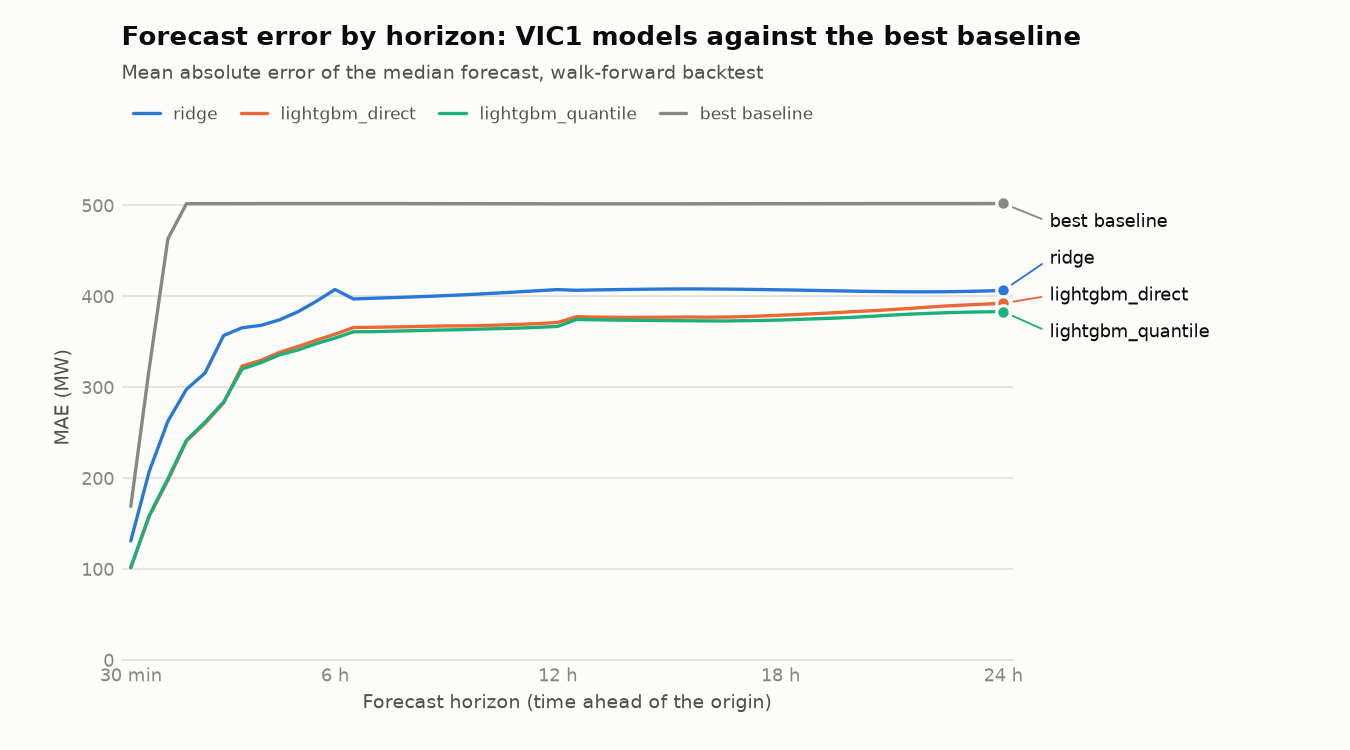
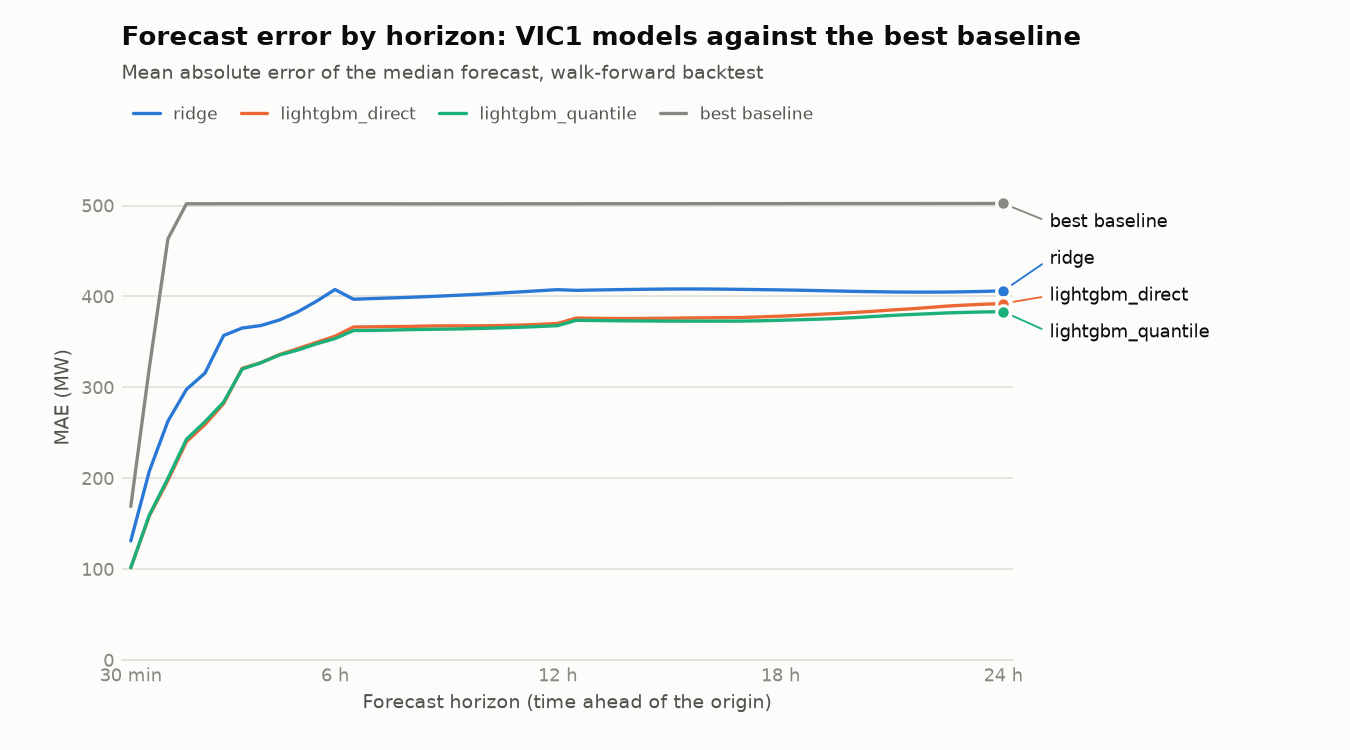
Nightly backtest 2026-11-26 [skip ci]

diff --git a/docs/backtest/README.md b/docs/backtest/README.md
@@ -1,11 +1,11 @@
 # Backtest: VIC1
 
-Generated by `nem-forecast backtest` on 2026-11-25 11:03 AEST from commit `eae7d4e3b448684ebd1917cfd7f3b3498cb2f6e8`. Baselines and models are scored on identical forecasts. Baselines are fixed rules and were not tuned; LightGBM hyperparameters were tuned on a validation split that ends where this backtest begins.
+Generated by `nem-forecast backtest` on 2026-11-26 10:39 AEST from commit `505a23a5000671fc9b3067070e33f770e1a05811`. Baselines and models are scored on identical forecasts. Baselines are fixed rules and were not tuned; LightGBM hyperparameters were tuned on a validation split that ends where this backtest begins.
 
 ## Setup
 
-- **Data:** AEMO 5-minute operational demand averaged to half-hours, 2023-10-01 to 2026-11-25.
-- **Evaluation:** walk-forward over 2025-11-25 to 2026-11-25 (365 days). Expanding training window, refit every 30 days (13 refits), a forecast from every 30-minute origin, 48 half-hour horizons. 840,600 scored forecasts per model.
+- **Data:** AEMO 5-minute operational demand averaged to half-hours, 2023-10-01 to 2026-11-26.
+- **Evaluation:** walk-forward over 2025-11-26 to 2026-11-26 (365 days). Expanding training window, refit every 30 days (13 refits), a forecast from every 30-minute origin, 48 half-hour horizons. 840,312 scored forecasts per model.
 - **Intervals:** baselines use each rule's 10th and 90th error percentiles over the 90 days before each refit. Ridge and LightGBM direct use their own errors on the 28 days before each refit, predicted by a copy trained without those days. LightGBM quantile predicts its quantiles directly.
 - **Time of day:** Melbourne wall-clock time of the target half-hour.
 
@@ -19,13 +19,13 @@ Generated by `nem-forecast backtest` on 2026-11-25 11:03 AEST from commit `eae7d
 
 | Model | Kind | Description | MAE (MW) | RMSE (MW) | MAPE (%) | Pinball avg (MW) | 10-90 coverage (%) |
 |---|---|---|--:|--:|--:|--:|--:|
-| `seasonal_naive` | baseline | Same half-hour yesterday (t-48) | 504 | 752 | 10.8 | 178.4 | 79.9 |
-| `weekly_seasonal_naive` | baseline | Same half-hour last week (t-336) | 594 | 895 | 12.9 | 210.5 | 79.3 |
-| `same_weekday_mean_4w` | baseline | Mean of the same half-hour on the last 4 same weekdays | 502 | 718 | 10.8 | 177.6 | 75.4 |
-| `persistence` | baseline | Last observed half-hour, held flat (demand at the origin) | 968 | 1,231 | 20.5 | 299.2 | 79.5 |
-| `ridge` | model | Ridge regression on standardised lags and one-hot calendar, per horizon group | 384 | 557 | 8.2 | 132.2 | 77.7 |
-| `lightgbm_direct` | model | LightGBM, squared error, one model per horizon group | 351 | 528 | 7.5 | 123.0 | 77.1 |
-| `lightgbm_quantile` | model | LightGBM quantile regression at 0.1/0.5/0.9, one model per horizon group | 347 | 529 | 7.3 | 114.0 | 67.2 |
+| `seasonal_naive` | baseline | Same half-hour yesterday (t-48) | 504 | 752 | 10.8 | 178.5 | 79.9 |
+| `weekly_seasonal_naive` | baseline | Same half-hour last week (t-336) | 594 | 894 | 12.9 | 210.2 | 79.2 |
+| `same_weekday_mean_4w` | baseline | Mean of the same half-hour on the last 4 same weekdays | 502 | 718 | 10.8 | 177.6 | 75.2 |
+| `persistence` | baseline | Last observed half-hour, held flat (demand at the origin) | 968 | 1,231 | 20.5 | 299.3 | 79.5 |
+| `ridge` | model | Ridge regression on standardised lags and one-hot calendar, per horizon group | 384 | 556 | 8.2 | 132.0 | 77.9 |
+| `lightgbm_direct` | model | LightGBM, squared error, one model per horizon group | 351 | 526 | 7.5 | 123.0 | 77.2 |
+| `lightgbm_quantile` | model | LightGBM quantile regression at 0.1/0.5/0.9, one model per horizon group | 347 | 528 | 7.3 | 114.1 | 67.1 |
 
 ## MAE (MW) by horizon
 
@@ -33,25 +33,25 @@ Generated by `nem-forecast backtest` on 2026-11-25 11:03 AEST from commit `eae7d
 
 | Model | 30 min | 1 h | 2 h | 3 h | 6 h | 12 h | 18 h | 24 h |
 |---|--:|--:|--:|--:|--:|--:|--:|--:|
-| `seasonal_naive` | 503 | 503 | 503 | 503 | 504 | 504 | 504 | 504 |
-| `weekly_seasonal_naive` | 594 | 594 | 594 | 594 | 594 | 594 | 594 | 594 |
+| `seasonal_naive` | 504 | 504 | 504 | 504 | 504 | 504 | 504 | 504 |
+| `weekly_seasonal_naive` | 593 | 593 | 593 | 593 | 593 | 593 | 594 | 594 |
 | `same_weekday_mean_4w` | 502 | 502 | 502 | 502 | 502 | 502 | 502 | 502 |
-| `persistence` | 169 | 322 | 596 | 824 | 1,174 | 1,001 | 1,192 | 504 |
+| `persistence` | 169 | 322 | 596 | 825 | 1,175 | 1,002 | 1,193 | 504 |
 | `ridge` | 131 | 208 | 298 | 357 | 408 | 407 | 407 | 406 |
-| `lightgbm_direct` | 101 | 158 | 241 | 283 | 358 | 371 | 379 | 392 |
-| `lightgbm_quantile` | 102 | 159 | 242 | 284 | 354 | 367 | 374 | 383 |
+| `lightgbm_direct` | 101 | 159 | 240 | 282 | 356 | 370 | 378 | 392 |
+| `lightgbm_quantile` | 102 | 160 | 243 | 284 | 354 | 368 | 374 | 383 |
 
 ## Pinball loss, average of q10/q50/q90 (MW), by horizon
 
 | Model | 30 min | 1 h | 2 h | 3 h | 6 h | 12 h | 18 h | 24 h |
 |---|--:|--:|--:|--:|--:|--:|--:|--:|
-| `seasonal_naive` | 178 | 178 | 178 | 178 | 178 | 178 | 178 | 179 |
-| `weekly_seasonal_naive` | 210 | 210 | 210 | 210 | 211 | 210 | 210 | 210 |
-| `same_weekday_mean_4w` | 177 | 177 | 177 | 177 | 178 | 178 | 178 | 178 |
-| `persistence` | 53 | 101 | 185 | 253 | 357 | 308 | 366 | 179 |
-| `ridge` | 45 | 71 | 101 | 121 | 140 | 140 | 140 | 140 |
-| `lightgbm_direct` | 35 | 55 | 84 | 99 | 126 | 129 | 133 | 138 |
-| `lightgbm_quantile` | 36 | 53 | 80 | 93 | 116 | 121 | 123 | 125 |
+| `seasonal_naive` | 178 | 178 | 178 | 178 | 178 | 178 | 179 | 179 |
+| `weekly_seasonal_naive` | 210 | 210 | 210 | 210 | 210 | 210 | 210 | 210 |
+| `same_weekday_mean_4w` | 177 | 177 | 177 | 177 | 177 | 178 | 178 | 178 |
+| `persistence` | 53 | 101 | 185 | 254 | 357 | 308 | 366 | 179 |
+| `ridge` | 45 | 71 | 100 | 121 | 139 | 140 | 140 | 140 |
+| `lightgbm_direct` | 35 | 55 | 83 | 99 | 125 | 129 | 133 | 139 |
+| `lightgbm_quantile` | 36 | 53 | 80 | 93 | 116 | 121 | 122 | 125 |
 
 ## MAE change against seasonal naive, by horizon
 
@@ -63,20 +63,20 @@ Negative is better than seasonal naive.
 | `same_weekday_mean_4w` | -0% | -0% | -0% | -0% | -0% | -0% | -0% | -0% |
 | `persistence` | -66% | -36% | +18% | +64% | +133% | +99% | +137% | +0% |
 | `ridge` | -74% | -59% | -41% | -29% | -19% | -19% | -19% | -19% |
-| `lightgbm_direct` | -80% | -69% | -52% | -44% | -29% | -26% | -25% | -22% |
+| `lightgbm_direct` | -80% | -69% | -52% | -44% | -29% | -27% | -25% | -22% |
 | `lightgbm_quantile` | -80% | -68% | -52% | -44% | -30% | -27% | -26% | -24% |
 
 ## MAE (MW) by time of day
 
 | Model | 00-06 overnight | 06-10 morning ramp | 10-16 solar trough | 16-21 evening peak | 21-24 late evening |
 |---|--:|--:|--:|--:|--:|
-| `seasonal_naive` | 211 | 533 | 826 | 570 | 296 |
-| `weekly_seasonal_naive` | 289 | 509 | 969 | 688 | 413 |
-| `same_weekday_mean_4w` | 236 | 462 | 793 | 595 | 352 |
-| `persistence` | 859 | 861 | 1,064 | 1,145 | 843 |
-| `ridge` | 211 | 350 | 608 | 425 | 260 |
-| `lightgbm_direct` | 170 | 292 | 597 | 394 | 231 |
-| `lightgbm_quantile` | 166 | 289 | 590 | 392 | 229 |
+| `seasonal_naive` | 211 | 533 | 826 | 570 | 297 |
+| `weekly_seasonal_naive` | 289 | 508 | 968 | 688 | 413 |
+| `same_weekday_mean_4w` | 236 | 460 | 795 | 595 | 352 |
+| `persistence` | 859 | 862 | 1,064 | 1,145 | 843 |
+| `ridge` | 212 | 349 | 608 | 425 | 261 |
+| `lightgbm_direct` | 170 | 292 | 596 | 393 | 230 |
+| `lightgbm_quantile` | 166 | 288 | 591 | 392 | 228 |
 
 ## Where the full numbers live
 
@@ -86,10 +86,10 @@ MLflow, nested under each model's run.
 
 | Model | model_runs.run_id | MLflow run |
 |---|---|---|
-| `seasonal_naive` | `0577fd0e-dd71-4baa-91db-d7a94d44a65d` | `b4711d862a214057b320b10e55c1957a` |
-| `weekly_seasonal_naive` | `5dac6d99-1fc4-4c92-a065-087b2fa506aa` | `8016f501070846eca6de8bfae7f75957` |
-| `same_weekday_mean_4w` | `77ba39f5-3529-49d1-924b-38b144384599` | `7fb703d5f704479b8aad07fa6c582807` |
-| `persistence` | `8c869714-af14-4170-b7b4-bfe1c95a6c63` | `2bc2d8c0a464475b9e17e771a6b20455` |
-| `ridge` | `8e5b9d4f-96c3-41d3-b685-ae6fda9dc94e` | `92ec2d920a954a72bc8f69fdf0faa706` |
-| `lightgbm_direct` | `6f0f1bbe-ad7b-47f3-8ff8-c0159c9db736` | `1798adecfd254354ba3169657a5da969` |
-| `lightgbm_quantile` | `19b97966-ffea-4b3a-9e2b-8c235bebaebc` | `585cadf98c8d4392bcb5cf8079048d78` |
+| `seasonal_naive` | `e08a9ccc-cdd2-42b9-91dc-4359c741ffe9` | `ab3a8dba98e24dac962e5d3445c2e9d2` |
+| `weekly_seasonal_naive` | `c6d9d685-b48a-4af2-b5bd-c8905ec2f336` | `d85158d5d0864b22a0b39e9778b3bcb9` |
+| `same_weekday_mean_4w` | `65b9c2b4-5eaa-4670-82d2-bfeef1f187c8` | `f9e9aef1420f4f8d879268ab967c55c5` |
+| `persistence` | `86826132-8d2e-46ea-ba7c-5fef4b728ae3` | `4f5dda2553184f299878e4c8c95e9886` |
+| `ridge` | `0958e69e-ea6b-40e3-a8b9-8bdd2c47a865` | `8934d33a31c844b283c160e3dd0edd34` |
+| `lightgbm_direct` | `08578abd-9e63-4b47-91b2-43b8dac20cda` | `fe0d0db7fd13433bbd234507e4df37c2` |
+| `lightgbm_quantile` | `5659502e-f4b5-40be-903e-31729ec04365` | `2fd2b24bd6184818a6de1d0f53602819` |

diff --git a/README.md b/README.md
@@ -37,41 +37,41 @@ held flat: the honest short-horizon bar). The tables below are regenerated by th
 backtest.
 
 <!-- results:start -->
-Walk-forward backtest over 2025-11-25 to 2026-11-25, 840,600 forecasts per model, refreshed nightly (last run 2026-11-25; [full report](docs/backtest/README.md)).
+Walk-forward backtest over 2025-11-26 to 2026-11-26, 840,312 forecasts per model, refreshed nightly (last run 2026-11-26; [full report](docs/backtest/README.md)).
 
 | Model | Kind | MAE (MW) | MAPE (%) | Pinball avg (MW) | 10-90 coverage (%) |
 |---|---|--:|--:|--:|--:|
-| LightGBM quantile | model | 347 | 7.3 | 114.0 | 67.2 |
-| LightGBM direct | model | 351 | 7.5 | 123.0 | 77.1 |
-| Ridge | model | 384 | 8.2 | 132.2 | 77.7 |
-| 4-week same-weekday mean | baseline | 502 | 10.8 | 177.6 | 75.4 |
-| Seasonal naive | baseline | 504 | 10.8 | 178.4 | 79.9 |
-| Weekly seasonal naive | baseline | 594 | 12.9 | 210.5 | 79.3 |
-| Persistence | baseline | 968 | 20.5 | 299.2 | 79.5 |
+| LightGBM quantile | model | 347 | 7.3 | 114.1 | 67.1 |
+| LightGBM direct | model | 351 | 7.5 | 123.0 | 77.2 |
+| Ridge | model | 384 | 8.2 | 132.0 | 77.9 |
+| 4-week same-weekday mean | baseline | 502 | 10.8 | 177.6 | 75.2 |
+| Seasonal naive | baseline | 504 | 10.8 | 178.5 | 79.9 |
+| Weekly seasonal naive | baseline | 594 | 12.9 | 210.2 | 79.2 |
+| Persistence | baseline | 968 | 20.5 | 299.3 | 79.5 |
 
 **MAE (MW) by horizon**
 
 | Model | 30 min | 1 h | 2 h | 3 h | 6 h | 12 h | 18 h | 24 h |
 |---|--:|--:|--:|--:|--:|--:|--:|--:|
-| LightGBM quantile | 102 | 159 | 242 | 284 | 354 | 367 | 374 | 383 |
-| LightGBM direct | 101 | 158 | 241 | 283 | 358 | 371 | 379 | 392 |
+| LightGBM quantile | 102 | 160 | 243 | 284 | 354 | 368 | 374 | 383 |
+| LightGBM direct | 101 | 159 | 240 | 282 | 356 | 370 | 378 | 392 |
 | Ridge | 131 | 208 | 298 | 357 | 408 | 407 | 407 | 406 |
 | 4-week same-weekday mean | 502 | 502 | 502 | 502 | 502 | 502 | 502 | 502 |
-| Seasonal naive | 503 | 503 | 503 | 503 | 504 | 504 | 504 | 504 |
-| Weekly seasonal naive | 594 | 594 | 594 | 594 | 594 | 594 | 594 | 594 |
-| Persistence | 169 | 322 | 596 | 824 | 1,174 | 1,001 | 1,192 | 504 |
+| Seasonal naive | 504 | 504 | 504 | 504 | 504 | 504 | 504 | 504 |
+| Weekly seasonal naive | 593 | 593 | 593 | 593 | 593 | 593 | 594 | 594 |
+| Persistence | 169 | 322 | 596 | 825 | 1,175 | 1,002 | 1,193 | 504 |
 
 **Pinball loss, average of q10/q50/q90 (MW), by horizon**
 
 | Model | 30 min | 1 h | 2 h | 3 h | 6 h | 12 h | 18 h | 24 h |
 |---|--:|--:|--:|--:|--:|--:|--:|--:|
-| LightGBM quantile | 36 | 53 | 80 | 93 | 116 | 121 | 123 | 125 |
-| LightGBM direct | 35 | 55 | 84 | 99 | 126 | 129 | 133 | 138 |
-| Ridge | 45 | 71 | 101 | 121 | 140 | 140 | 140 | 140 |
-| 4-week same-weekday mean | 177 | 177 | 177 | 177 | 178 | 178 | 178 | 178 |
-| Seasonal naive | 178 | 178 | 178 | 178 | 178 | 178 | 178 | 179 |
-| Weekly seasonal naive | 210 | 210 | 210 | 210 | 211 | 210 | 210 | 210 |
-| Persistence | 53 | 101 | 185 | 253 | 357 | 308 | 366 | 179 |
+| LightGBM quantile | 36 | 53 | 80 | 93 | 116 | 121 | 122 | 125 |
+| LightGBM direct | 35 | 55 | 83 | 99 | 125 | 129 | 133 | 139 |
+| Ridge | 45 | 71 | 100 | 121 | 139 | 140 | 140 | 140 |
+| 4-week same-weekday mean | 177 | 177 | 177 | 177 | 177 | 178 | 178 | 178 |
+| Seasonal naive | 178 | 178 | 178 | 178 | 178 | 178 | 179 | 179 |
+| Weekly seasonal naive | 210 | 210 | 210 | 210 | 210 | 210 | 210 | 210 |
+| Persistence | 53 | 101 | 185 | 254 | 357 | 308 | 366 | 179 |
 
 - **LightGBM quantile**: Beats seasonal naive at all 48 horizons. Beats the best baseline at each horizon at all 48 horizons.
 - **LightGBM direct**: Beats seasonal naive at all 48 horizons. Beats the best baseline at each horizon at all 48 horizons.
